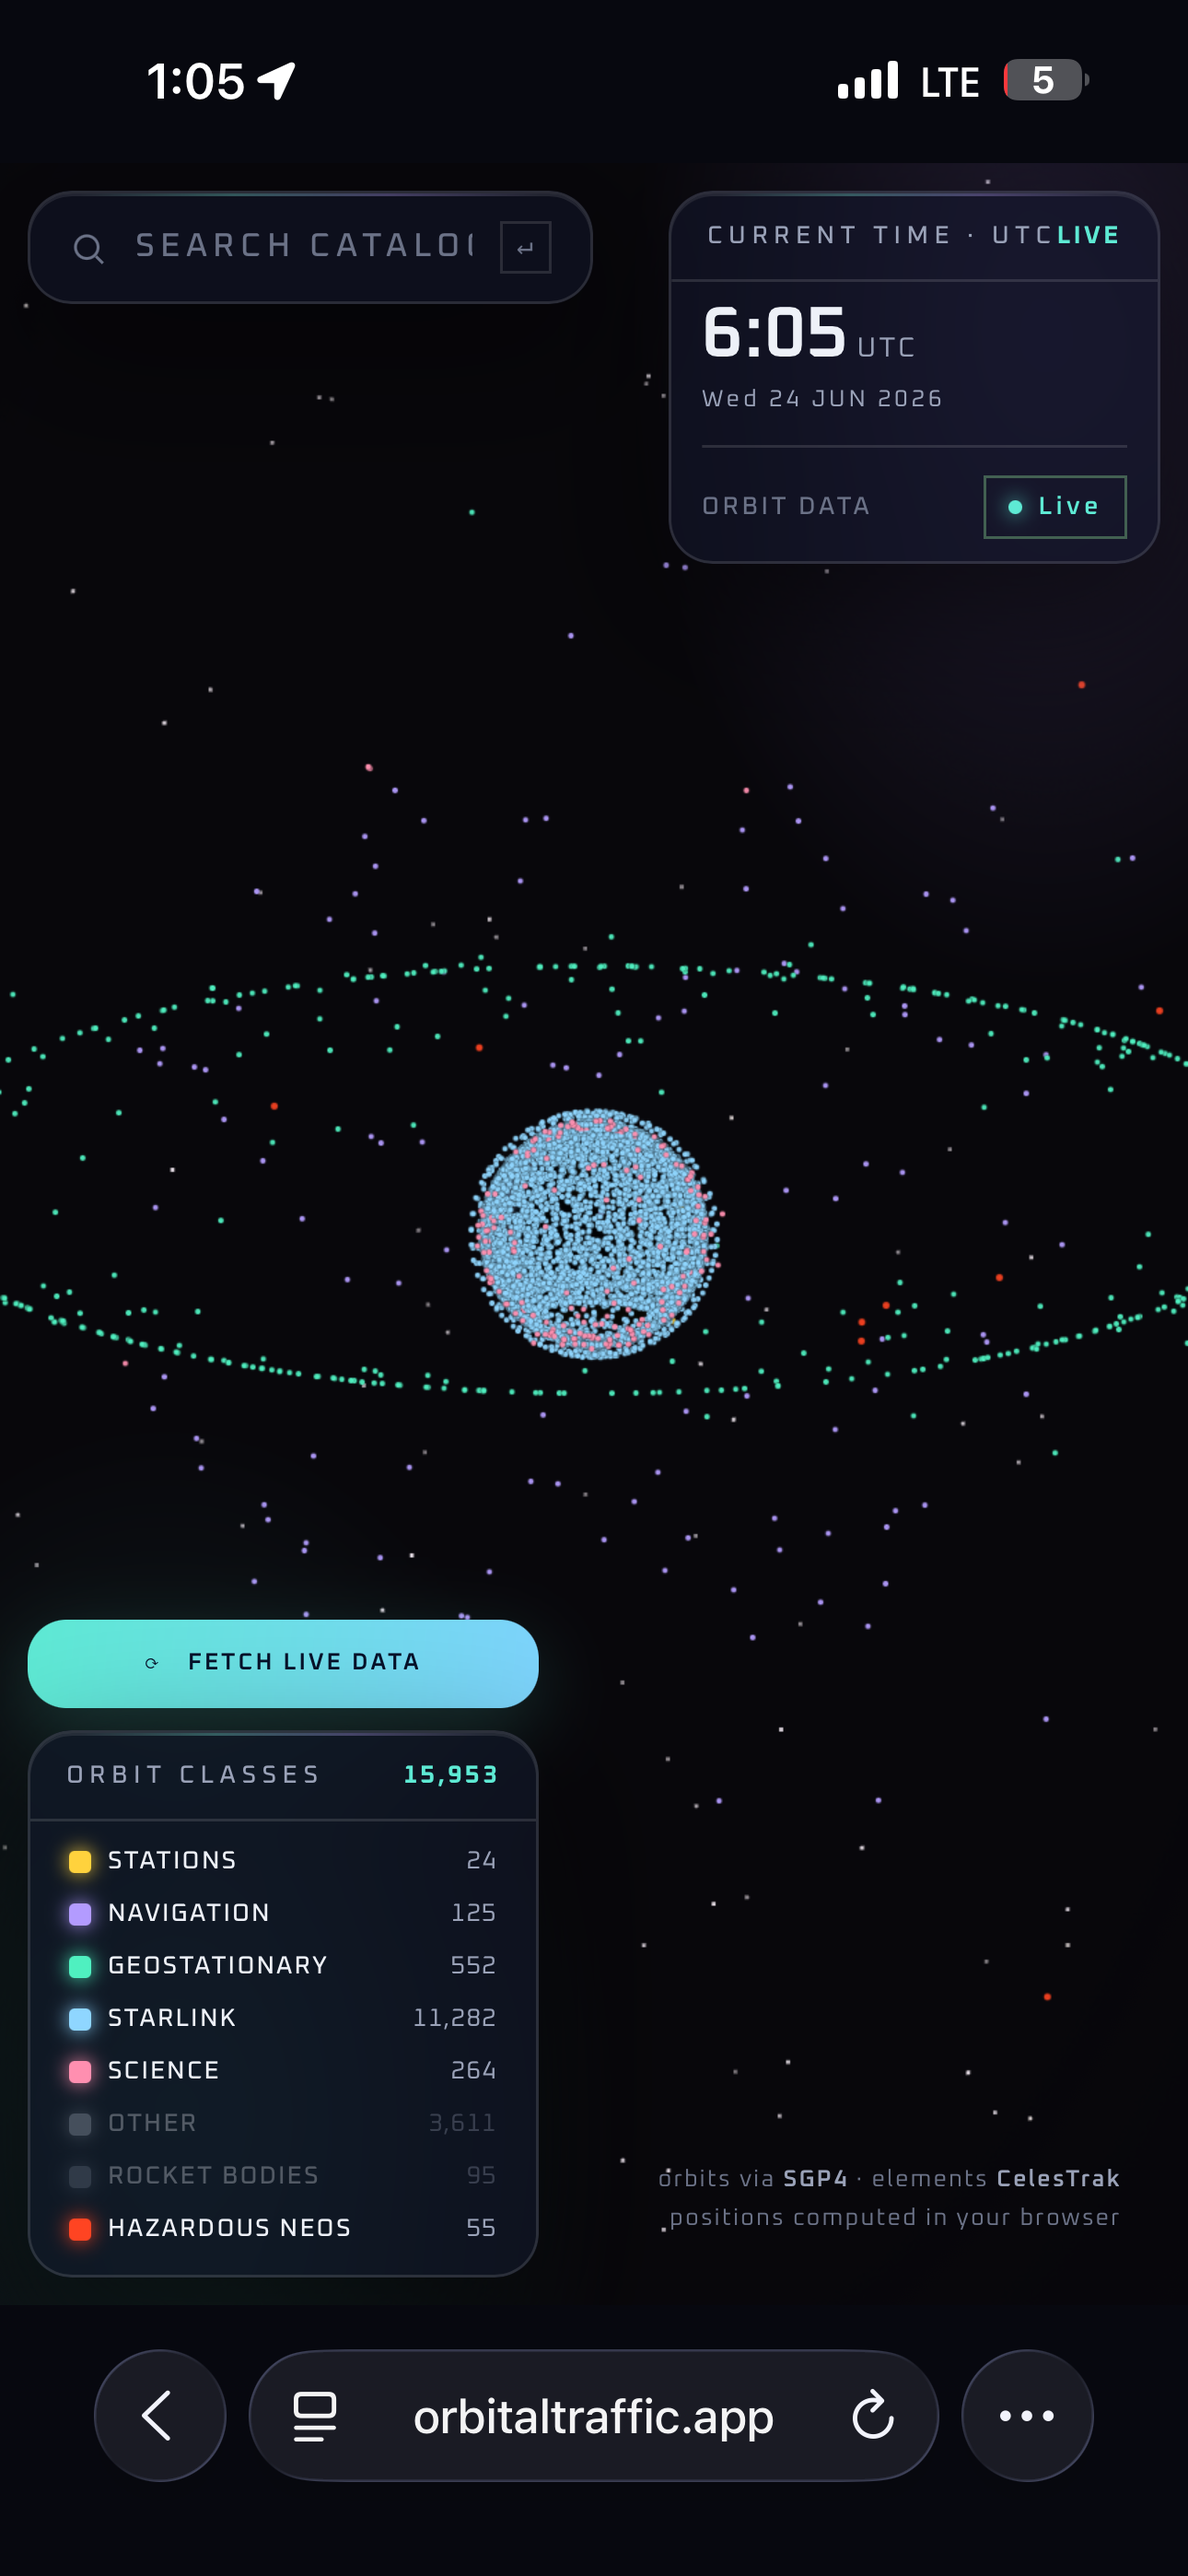
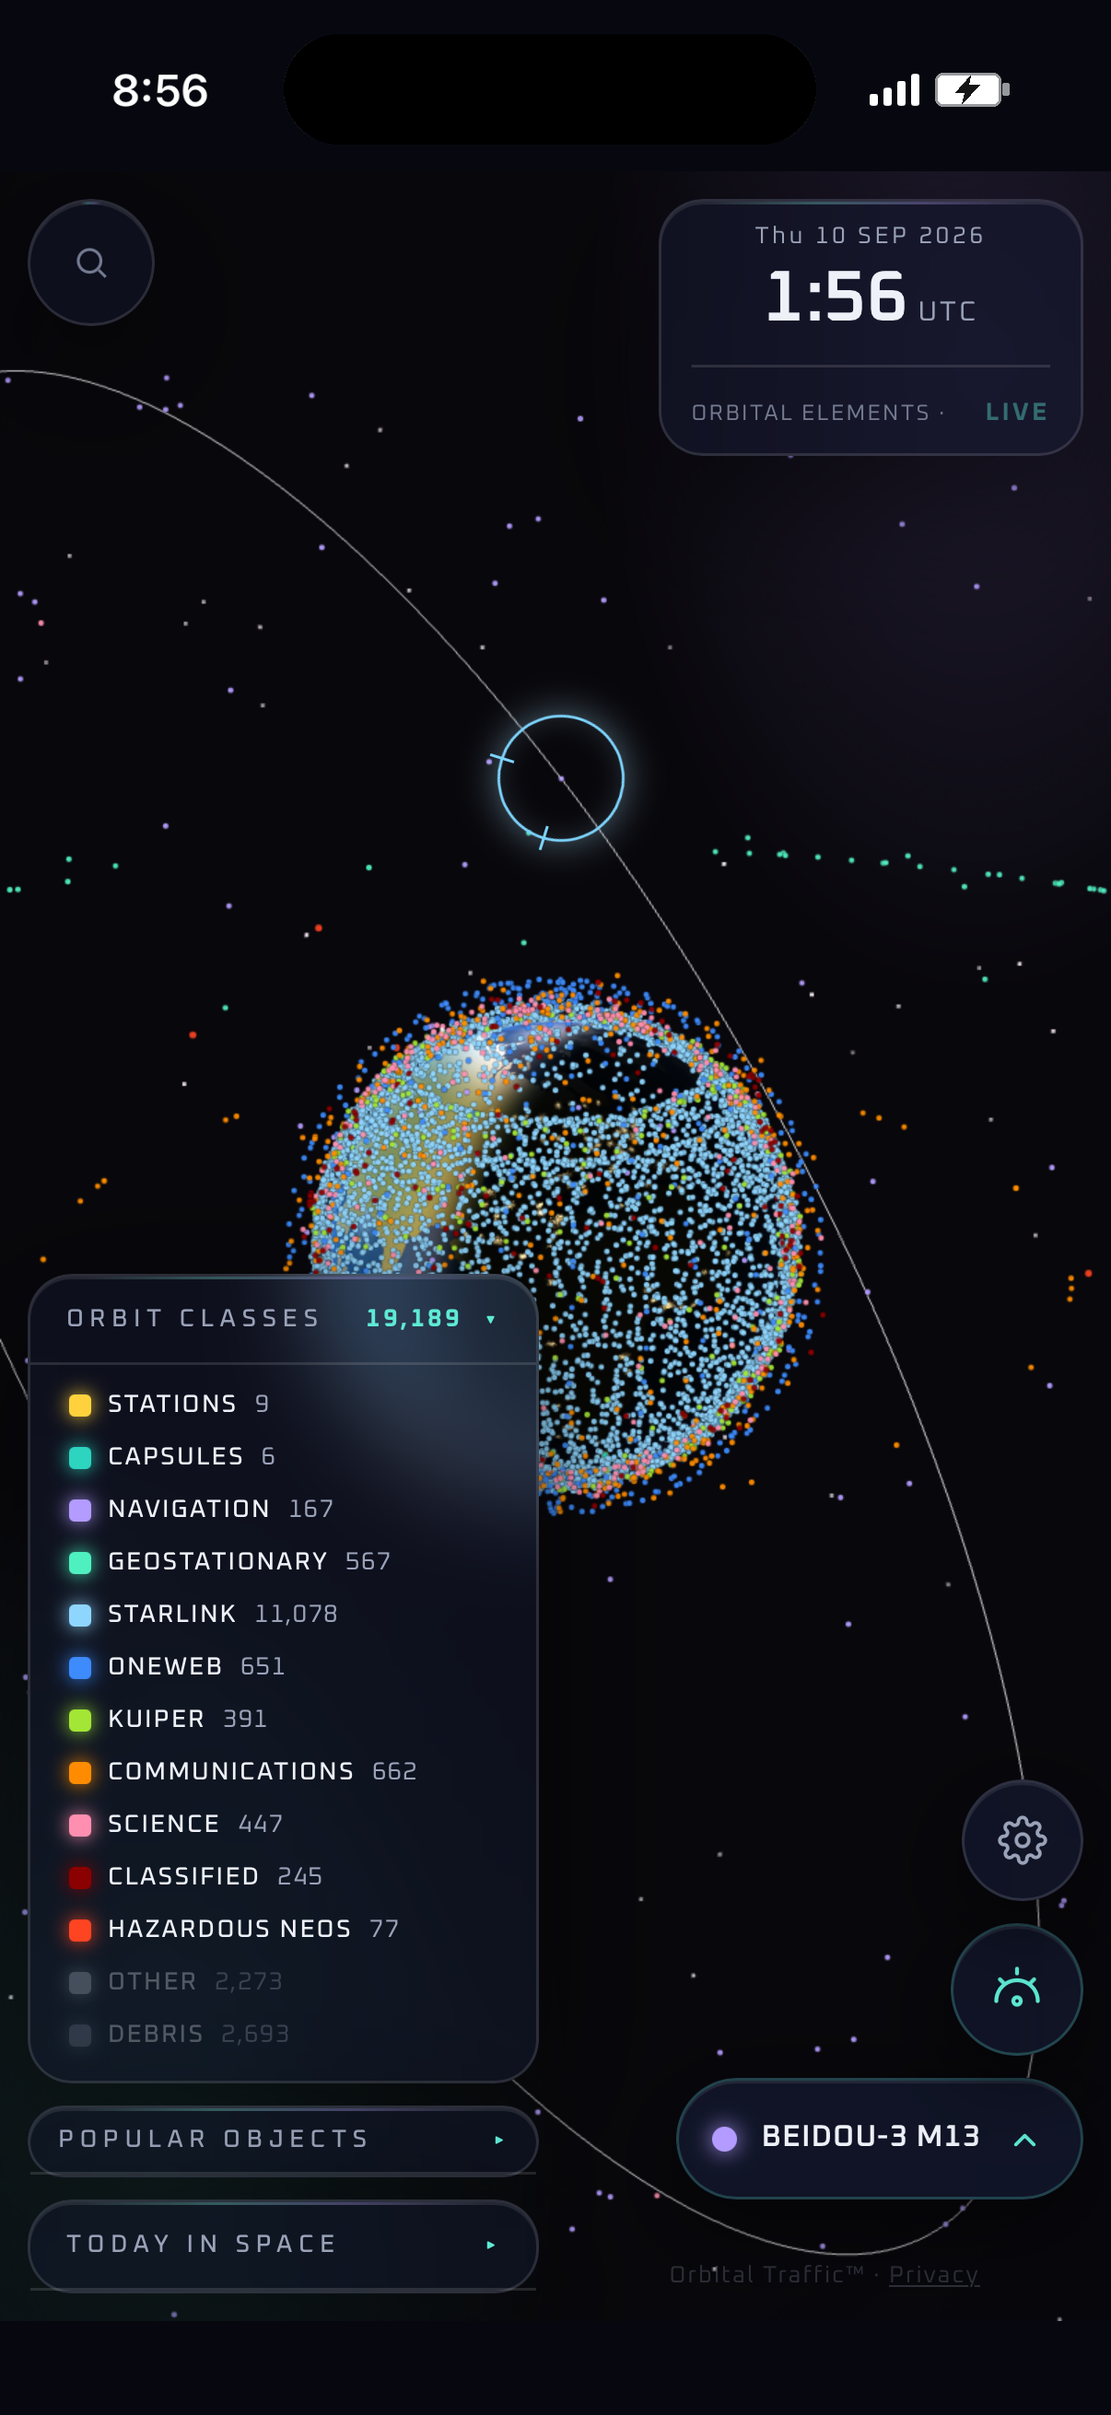
Update welcome.html hero screenshot to the new catalog UI
Replaces the outdated hero screenshot with a current one showing the
new zoomed-in globe and expanded orbit-class legend. Cleaned up the
status bar in the process: cleared the Dynamic Island's now-playing
widget and redrew the battery indicator as full and charging.

Claude-Session: https://claude.ai/code/session_01RpCun4fZvCsjUH8P7qqy2q

diff --git a/apps/web/welcome.html b/apps/web/welcome.html
@@ -86,7 +86,7 @@
     </div>
     <div class="hero-visual">
       <div class="phone-frame">
-        <img src="/screenshots/screenshot-mobile.png" alt="Orbital Traffic showing the ISS overhead on a live 3D globe" width="1290" height="2796" loading="eager">
+        <img src="/screenshots/screenshot-mobile.png" alt="Orbital Traffic showing the live satellite catalog and orbit-class legend on a real-time 3D globe" width="1206" height="2622" loading="eager">
       </div>
     </div>
   </section>
